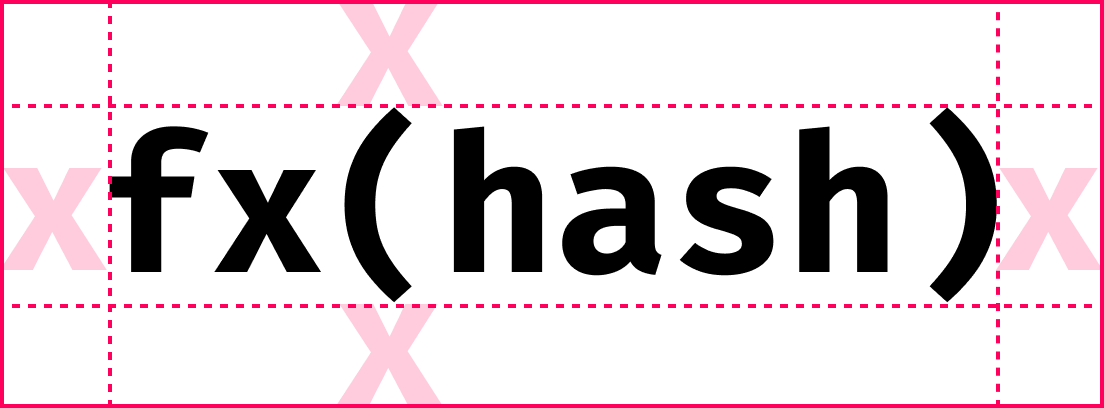
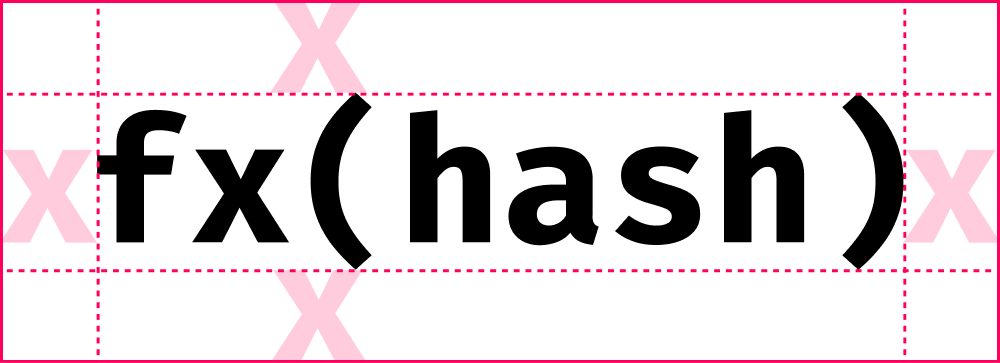
add clearspace images

diff --git a/src/containers/Presskit/ContentLogo.tsx b/src/containers/Presskit/ContentLogo.tsx
@@ -2,14 +2,14 @@ import { Button } from "components/Button"
 import classes from "./Content.module.scss"
 import cx from "classnames"
 import Image from "next/image"
-import FxFullLogoBlackTransparentBg from "../../../public/fxhash-press-kit/png/Black full logo on transparent background.png"
-import FxFullLogoWhiteTransparentBg from "../../../public/fxhash-press-kit/png/White full logo on transparent background.png"
-import FxFullLogoBlackWhiteBg from "../../../public/fxhash-press-kit/png/Black full logo on white background.png"
-import FxFullLogoWhiteBlackBg from "../../../public/fxhash-press-kit/png/White full logo on dark background.png"
-import FxSquareLogoBlackTransparentBg from "../../../public/fxhash-press-kit/png/Black square logo on transparent background.png"
-import FxSquareLogoWhiteTransparentBg from "../../../public/fxhash-press-kit/png/White square logo on transparent background.png"
-import FxSquareLogoBlackWhiteBg from "../../../public/fxhash-press-kit/png/Black square logo on white background.png"
-import FxSquareLogoWhiteBlackBg from "../../../public/fxhash-press-kit/png/White square logo on dark background.png"
+import FxFullLogoBlackTransparentBg from "../../../public/fxhash-press-kit/png/fxhash_Black full logo on transparent background.png"
+import FxFullLogoWhiteTransparentBg from "../../../public/fxhash-press-kit/png/fxhash_White full logo on transparent background.png"
+import FxFullLogoBlackWhiteBg from "../../../public/fxhash-press-kit/png/fxhash_Black full logo on white background.png"
+import FxFullLogoWhiteBlackBg from "../../../public/fxhash-press-kit/png/fxhash_White full logo on dark background.png"
+import FxSquareLogoBlackTransparentBg from "../../../public/fxhash-press-kit/png/fx_Black square logo on transparent background.png"
+import FxSquareLogoWhiteTransparentBg from "../../../public/fxhash-press-kit/png/fx_White square logo on transparent background.png"
+import FxSquareLogoBlackWhiteBg from "../../../public/fxhash-press-kit/png/fx_Black square logo on white background.png"
+import FxSquareLogoWhiteBlackBg from "../../../public/fxhash-press-kit/png/fx_White square logo on dark background.png"
 import FxFullLogoClearSpace from "../../../public/fxhash-press-kit/fxhash_full_min-clear-spacing.png"
 import FxSquareLogoClearSpace from "../../../public/fxhash-press-kit/fxhash_square_min-clear-spacing.png"
 
@@ -69,24 +69,24 @@ export function ContentLogo() {
         <section>
           <LogoBox
             img={FxFullLogoBlackTransparentBg}
-            assetId="Black full logo on transparent background"
+            assetId="fxhash_Black full logo on transparent background"
             caption="Black logo on transparent background"
           />
           <LogoBox
             img={FxFullLogoWhiteTransparentBg}
-            assetId="White full logo on transparent background"
+            assetId="fxhash_White full logo on transparent background"
             caption="White logo on transparent background"
           />
         </section>
         <section>
           <LogoBox
             img={FxFullLogoBlackWhiteBg}
-            assetId="Black full logo on white background"
+            assetId="fxhash_Black full logo on white background"
             caption="Black logo on white background"
           />
           <LogoBox
             img={FxFullLogoWhiteBlackBg}
-            assetId="White full logo on dark background"
+            assetId="fxhash_White full logo on dark background"
             caption="White logo on dark background"
           />
         </section>
@@ -96,24 +96,24 @@ export function ContentLogo() {
         <section>
           <LogoBox
             img={FxSquareLogoBlackTransparentBg}
-            assetId="Black square logo on transparent background"
+            assetId="fx_Black square logo on transparent background"
             caption="Black logo on transparent background"
           />
           <LogoBox
             img={FxSquareLogoWhiteTransparentBg}
-            assetId="White square logo on transparent background"
+            assetId="fx_White square logo on transparent background"
             caption="White logo on transparent background"
           />
         </section>
         <section>
           <LogoBox
             img={FxSquareLogoBlackWhiteBg}
-            assetId="Black square logo on white background"
+            assetId="fx_Black square logo on white background"
             caption="Black logo on white background"
           />
           <LogoBox
             img={FxSquareLogoWhiteBlackBg}
-            assetId="White square logo on dark background"
+            assetId="fx_White square logo on dark background"
             caption="White logo on dark background"
           />
         </section>
@@ -121,8 +121,8 @@ export function ContentLogo() {
       <h2>clearspace</h2>
       <article>
         <section className={classes.nobg}>
-          <LogoBox img={FxFullLogoWhiteBlackBg} />
-          <LogoBox img={FxSquareLogoWhiteBlackBg} />
+          <LogoBox img={FxFullLogoClearSpace} />
+          <LogoBox img={FxSquareLogoClearSpace} />
         </section>
       </article>
       <article className={classes.packageArticle}>
